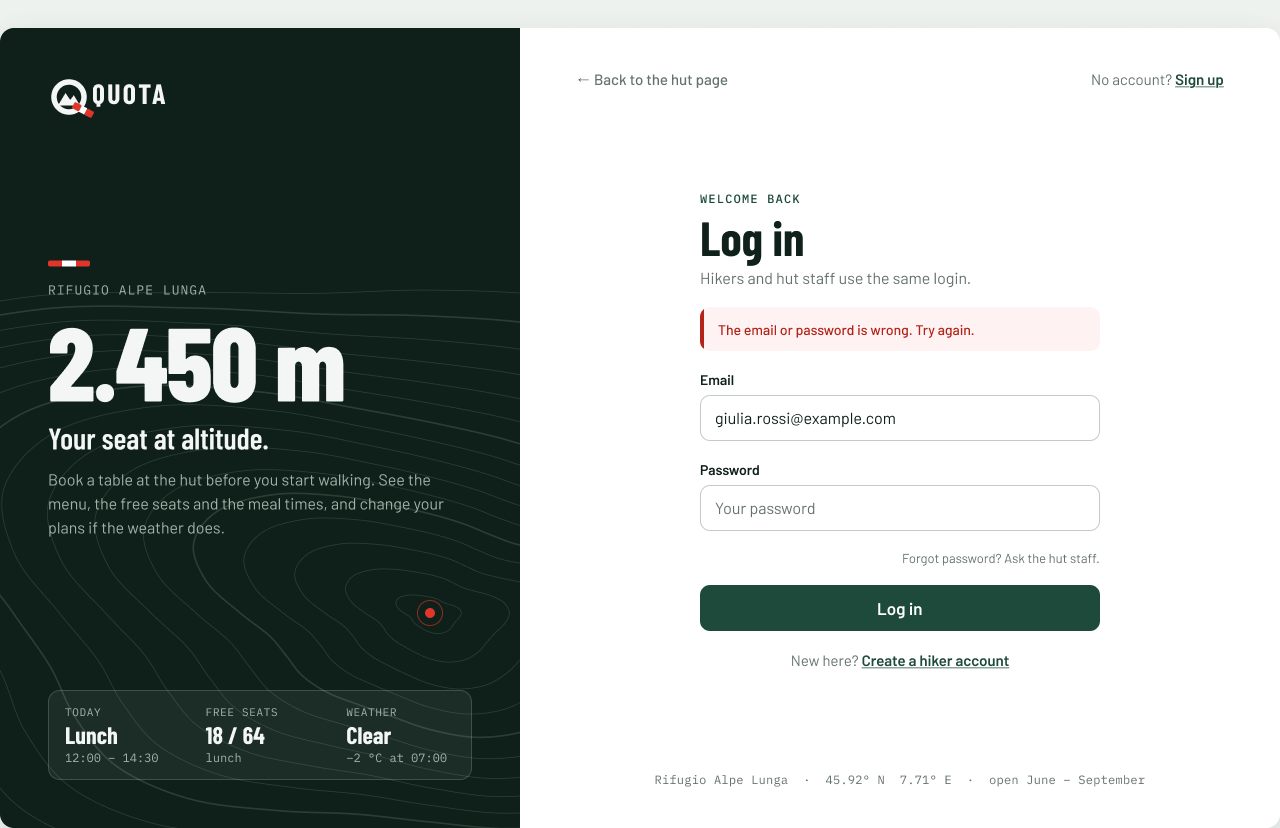
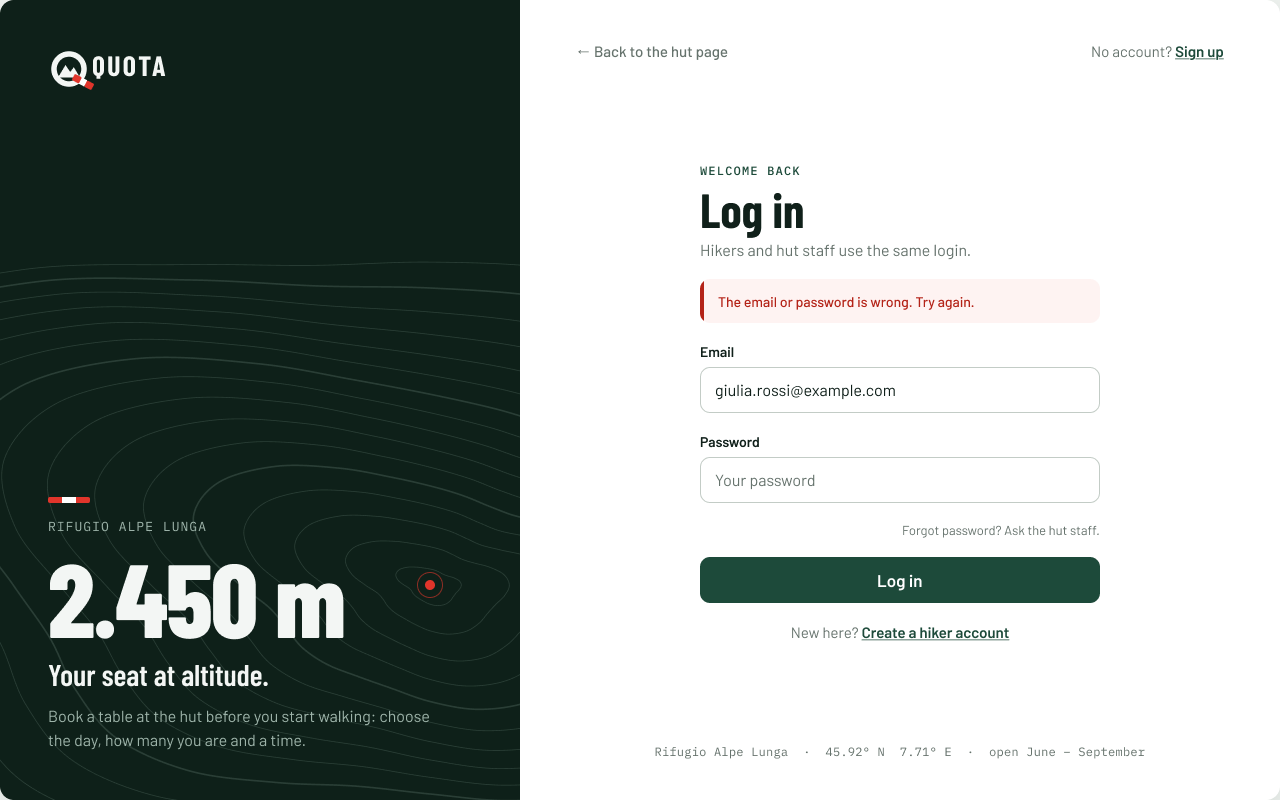
docs: add the phone version of the login mockup (MH-45)
The website is responsive: below 992 px the login, sign-up and navbar
fold into one column. Ten phone screens, in Figma and in phone.html.

The brand panel no longer shows the Today strip (sample data of later
stories) and the navbar lists only the sprint 1 pages; screens 1-7 are
exported again from Figma.

diff --git a/docs/mockups/login/phone.html b/docs/mockups/login/phone.html
@@ -1,0 +1,222 @@
+<!doctype html>
+<html lang="en">
+<head>
+<meta charset="utf-8">
+<meta name="viewport" content="width=device-width, initial-scale=1">
+<title>MH-45 Login and sign-up, responsive (QUOTA)</title>
+<link rel="preconnect" href="https://fonts.googleapis.com">
+<link rel="preconnect" href="https://fonts.gstatic.com" crossorigin>
+<link href="https://fonts.googleapis.com/css2?family=Barlow+Condensed:wght@600;700;800&family=Barlow:wght@400;500;600&family=IBM+Plex+Mono:wght@400;500&display=block" rel="stylesheet">
+<style>
+  /* QUOTA tokens: same names and values as the Figma variables (page "Components"). */
+  :root {
+    --ink: #10201A; --pine: #1D4A3A; --pine-hover: #163A2D; --pine-deep: #0E2019; --moss-soft: #E3ECE6;
+    --snow: #FFFFFF; --mist: #EEF2EF; --stone: #66736D; --line: #D8DFDA; --input-border: #C3CCC6;
+    --blaze: #E0352B; --error: #B42318; --error-soft: #FEF3F2; --info: #175CD3; --info-soft: #EFF8FF;
+    --on-dark: #F3F6F4; --on-dark-muted: #9DB3A9;
+    --f-display: "Barlow Condensed", sans-serif; --f-body: "Barlow", sans-serif; --f-mono: "IBM Plex Mono", monospace;
+  }
+  * { box-sizing: border-box; }
+  body { margin: 0; background: #DDE4E0; font-family: var(--f-body); color: var(--ink); }
+  .sheet { padding: 48px; display: grid; gap: 64px; }
+  .group > h2 { font-family: var(--f-display); font-size: 34px; margin: 0 0 6px; }
+  .group > p { margin: 0 0 24px; color: var(--stone); font-size: 15px; max-width: 900px; line-height: 1.5; }
+  .row-of-phones { display: flex; flex-wrap: wrap; gap: 40px; align-items: flex-start; }
+  .shot { display: grid; gap: 10px; width: 414px; }
+  .shot-title { display: flex; gap: 10px; align-items: baseline; }
+  .shot-title .n { font-family: var(--f-mono); color: var(--pine); font-weight: 500; }
+  .shot-title h3 { font-family: var(--f-display); font-size: 22px; margin: 0; }
+  .shot ul { margin: 0; padding-left: 18px; color: var(--stone); font-size: 14px; line-height: 1.45; min-height: 62px; }
+
+  /* device: 390 x 844 viewport (iPhone 14/15) inside a thin bezel */
+  .device { background: #0B1612; padding: 12px; border-radius: 52px; box-shadow: 0 16px 40px rgba(16,32,26,.18); }
+  .screen { width: 390px; height: 844px; border-radius: 40px; overflow: hidden; background: var(--snow); position: relative; display: flex; flex-direction: column; }
+  .screen.long { height: auto; }
+  .status { height: 47px; flex: none; display: flex; align-items: center; justify-content: space-between; padding: 6px 30px 0 34px; font-family: var(--f-body); font-weight: 600; font-size: 16px; position: relative; z-index: 2; }
+  .status .icons { display: flex; gap: 6px; align-items: center; }
+  .status { background: #F2F3F2; }
+
+  /* hero (the brand panel of the desktop, folded on top) */
+  .hero { background: var(--pine-deep); color: var(--on-dark); position: relative; overflow: hidden; padding: 4px 24px 40px; flex: none; }
+  .hero svg.contours { position: absolute; inset: 0; width: 100%; height: 100%; }
+  .hero > * { position: relative; }
+  .hero-top { display: flex; align-items: center; justify-content: space-between; height: 56px; }
+  .logo { display: flex; align-items: center; gap: 8px; font-family: var(--f-display); font-weight: 700; font-size: 24px; letter-spacing: .08em; line-height: 1; }
+  .toplink { font-size: 15px; color: var(--on-dark-muted); }
+  .toplink b { color: var(--on-dark); text-decoration: underline; text-underline-offset: 3px; font-weight: 600; }
+  .blz { display: flex; width: 42px; height: 6px; margin: 14px 0 10px; }
+  .blz i { flex: 1; background: var(--blaze); } .blz i:nth-child(2) { background: var(--snow); }
+  .hut { font-family: var(--f-mono); font-size: 12px; letter-spacing: .12em; color: var(--on-dark-muted); }
+  .alt { font-family: var(--f-display); font-weight: 800; font-size: 58px; line-height: .95; letter-spacing: -.01em; margin-top: 4px; }
+  .tag { font-family: var(--f-display); font-weight: 600; font-size: 22px; margin-top: 6px; }
+  .today { margin-top: 14px; display: inline-flex; gap: 10px; align-items: center; border: 1px solid rgba(255,255,255,.14); background: rgba(255,255,255,.06); border-radius: 999px; padding: 7px 14px; font-family: var(--f-mono); font-size: 12px; color: var(--on-dark-muted); }
+  .today b { color: var(--on-dark); font-weight: 500; }
+  .today .dot { width: 6px; height: 6px; border-radius: 50%; background: var(--blaze); }
+  .hero.compact { padding-bottom: 40px; }
+  .hero.compact .hut { margin-top: 18px; }
+
+  /* the form sheet slides over the hero */
+  .form { background: var(--snow); border-radius: 24px 24px 0 0; margin-top: -24px; padding: 24px 24px 30px; position: relative; flex: 1; display: flex; flex-direction: column; }
+  .eyebrow { font-family: var(--f-mono); font-size: 12px; font-weight: 500; letter-spacing: .12em; text-transform: uppercase; color: var(--pine); }
+  h1 { font-family: var(--f-display); font-weight: 700; font-size: 42px; line-height: 1; margin: 6px 0 6px; }
+  .sub { color: var(--stone); font-size: 15px; margin: 0 0 20px; }
+  .field { margin-bottom: 16px; }
+  .field label { display: block; font-weight: 600; font-size: 15px; margin-bottom: 6px; }
+  .field label i { color: var(--error); font-style: normal; }
+  .input { height: 52px; border: 1px solid var(--input-border); border-radius: 10px; display: flex; align-items: center; justify-content: space-between; padding: 0 14px; font-size: 16px; background: var(--snow); }
+  .input .ph { color: #8A958F; }
+  .field.focus .input { border: 2px solid var(--pine); padding: 0 13px; box-shadow: 0 0 0 4px var(--moss-soft); }
+  .field.err .input { border: 1.5px solid var(--error); background: var(--error-soft); padding: 0 13.5px; }
+  .msg { color: var(--error); font-size: 14px; margin-top: 6px; }
+  .msg u { font-weight: 600; text-underline-offset: 2px; }
+  .help { color: var(--stone); font-size: 14px; margin-top: 6px; }
+  .forgot { text-align: right; font-size: 14px; color: var(--stone); margin: -4px 0 18px; }
+  .btn { height: 54px; width: 100%; border: 0; border-radius: 12px; font-family: var(--f-body); font-weight: 600; font-size: 17px; display: flex; align-items: center; justify-content: center; gap: 10px; }
+  .btn.primary { background: var(--pine); color: var(--snow); }
+  .btn.busy { background: #5D7C70; }
+  .btn.outline { background: var(--snow); color: var(--ink); border: 1px solid var(--input-border); }
+  .spinner { width: 18px; height: 18px; border-radius: 50%; border: 2.5px solid rgba(255,255,255,.35); border-top-color: #fff; }
+  .alt-line { text-align: center; color: var(--stone); font-size: 15px; margin-top: 16px; }
+  .alt-line b { color: var(--pine); text-decoration: underline; text-underline-offset: 3px; }
+  .alert { display: flex; border-radius: 10px; overflow: hidden; font-weight: 500; font-size: 14px; margin-bottom: 18px; line-height: 1.4; }
+  .alert::before { content: ""; width: 4px; flex: none; }
+  .alert span { padding: 12px 14px; }
+  .alert.error { background: var(--error-soft); color: var(--error); } .alert.error::before { background: var(--error); }
+  .alert.info { background: var(--info-soft); color: var(--info); } .alert.info::before { background: var(--info); }
+  .foot { margin-top: auto; padding-top: 18px; display: grid; gap: 10px; justify-items: center; }
+  .foot .back { font-size: 15px; color: var(--stone); }
+  .foot .coords { font-family: var(--f-mono); font-size: 11px; color: var(--stone); text-align: center; line-height: 1.6; }
+  .hero.compact .marker { display: none; }
+  .home-ind { height: 5px; width: 134px; border-radius: 3px; background: var(--ink); position: absolute; bottom: 8px; left: 50%; transform: translateX(-50%); z-index: 5; }
+
+  /* app top bar + menu */
+  .topbar { height: 60px; flex: none; display: flex; align-items: center; justify-content: space-between; padding: 0 12px 0 18px; border-bottom: 1px solid var(--line); background: var(--snow); position: relative; z-index: 3; }
+  .topbar .logo { color: var(--ink); font-size: 23px; }
+  .burger { width: 44px; height: 44px; border-radius: 10px; display: grid; place-items: center; }
+  .burger.open { background: var(--mist); }
+  .menu { position: absolute; top: 159px; left: 0; right: 0; background: var(--snow); z-index: 3; padding: 16px 16px 20px; border-bottom: 1px solid var(--line); box-shadow: 0 18px 30px rgba(14,32,25,.18); }
+  .me { display: flex; align-items: center; gap: 12px; padding: 4px 8px 16px; border-bottom: 1px solid var(--line); margin-bottom: 10px; }
+  .avatar { width: 40px; height: 40px; border-radius: 50%; background: var(--moss-soft); color: var(--pine); display: grid; place-items: center; font-family: var(--f-display); font-weight: 700; font-size: 16px; flex: none; }
+  .avatar.dark { background: var(--pine); color: var(--snow); }
+  .me b { display: block; font-size: 17px; font-weight: 600; }
+  .me span { font-family: var(--f-mono); font-size: 11px; letter-spacing: .08em; color: var(--stone); text-transform: uppercase; }
+  .menu a { display: flex; align-items: center; justify-content: space-between; height: 52px; padding: 0 12px; border-radius: 10px; font-size: 17px; font-weight: 500; color: var(--ink); text-decoration: none; }
+  .menu a.on { background: var(--moss-soft); color: var(--pine); font-weight: 600; }
+  .menu a.on::after { content: ""; width: 6px; height: 6px; border-radius: 50%; background: var(--pine); }
+  .menu .out { border-top: 1px solid var(--line); margin-top: 10px; padding-top: 10px; }
+  .menu .out a { color: var(--stone); }
+  .scrim { position: absolute; inset: 159px 0 0 0; background: rgba(14,32,25,.45); z-index: 2; }
+  .behind { padding: 24px; display: grid; gap: 12px; }
+  .ghost-line { height: 14px; border-radius: 7px; background: var(--line); }
+  .ghost-card { height: 110px; border-radius: 14px; background: var(--mist); }
+
+  /* staff only */
+  .center { flex: 1; display: grid; place-content: center; justify-items: center; text-align: center; padding: 0 32px; gap: 12px; background: var(--mist); }
+  .center .blz { margin: 0; }
+  .center h1 { font-size: 44px; margin: 4px 0 0; }
+  .center p { margin: 0 0 8px; color: var(--stone); font-size: 16px; line-height: 1.45; }
+  .center .btn { width: auto; padding: 0 22px; }
+
+  /* mobile browser chrome: these are web pages, not an app */
+  .urlbar { height: 52px; flex: none; background: #F2F3F2; display: flex; align-items: center; gap: 12px; padding: 0 14px; border-bottom: 1px solid #DADDDB; position: relative; z-index: 4; }
+  .urlbar .addr { flex: 1; height: 36px; border-radius: 12px; background: #E4E6E5; display: flex; align-items: center; justify-content: center; gap: 6px; font: 15px -apple-system, "Helvetica Neue", Arial, sans-serif; color: #2B2F2D; }
+  .urlbar .addr small { color: #7A807D; font-size: 15px; }
+</style>
+</head>
+<body>
+<div class="sheet" id="sheet"></div>
+
+<script>
+// Every screen is built from the same small helpers so phone and desktop stay in step.
+const mark = (c) => `<svg width="30" height="30" viewBox="0 0 48 48"><circle cx="21" cy="21" r="15" fill="none" stroke="${c}" stroke-width="5.5"/><path d="M10 29.5 L17.5 17 L22.2 24 L25.8 19.2 L32 29.5 Z" fill="${c}"/><g transform="rotate(28 35 34)"><rect x="24" y="30.5" width="8" height="7" rx="1.4" fill="#E0352B"/><rect x="32" y="30.5" width="6" height="7" fill="#FFFFFF"/><rect x="38" y="30.5" width="8" height="7" rx="1.4" fill="#E0352B"/></g></svg>`;
+const logo = (dark) => `<div class="logo">${mark(dark ? "#F3F6F4" : "#1D4A3A")}QUOTA</div>`;
+const status = (dark) => `<div class="status ${dark ? "dark" : ""}"><span>9:41</span><span class="icons">
+  <svg width="18" height="12" viewBox="0 0 18 12" fill="currentColor"><rect x="0" y="8" width="3" height="4" rx="1"/><rect x="5" y="5.5" width="3" height="6.5" rx="1"/><rect x="10" y="3" width="3" height="9" rx="1"/><rect x="15" y="0" width="3" height="12" rx="1"/></svg>
+  <svg width="16" height="12" viewBox="0 0 16 12" fill="currentColor"><path d="M8 2.2c2.3 0 4.4.9 6 2.4l1.2-1.3C13.3 1.5 10.8.4 8 .4S2.7 1.5.8 3.3L2 4.6c1.6-1.5 3.7-2.4 6-2.4zm0 3.6c1.3 0 2.5.5 3.4 1.3l1.2-1.3C11.4 4.7 9.8 4 8 4s-3.4.7-4.6 1.8l1.2 1.3c.9-.8 2.1-1.3 3.4-1.3zM8 9.3l2-2.1C9.5 6.8 8.8 6.5 8 6.5s-1.5.3-2 .7l2 2.1z"/></svg>
+  <svg width="26" height="12" viewBox="0 0 26 12"><rect x=".5" y=".5" width="22" height="11" rx="3" fill="none" stroke="currentColor" opacity=".4"/><rect x="2" y="2" width="17" height="8" rx="1.6" fill="currentColor"/><rect x="23.5" y="4" width="1.8" height="4" rx=".9" fill="currentColor" opacity=".5"/></svg></span></div>`;
+
+const urlbar = (path) => `<div class="urlbar"><svg width="18" height="18" viewBox="0 0 18 18" fill="none" stroke="#2B2F2D" stroke-width="1.6"><path d="M11 4L6 9l5 5"/></svg><div class="addr"><svg width="11" height="13" viewBox="0 0 11 13" fill="#5B615E"><rect x="0" y="5.5" width="11" height="7.5" rx="1.6"/><path d="M2.5 5.5V4a3 3 0 0 1 6 0v1.5" fill="none" stroke="#5B615E" stroke-width="1.5"/></svg>localhost:5173<small>${path}</small></div><svg width="18" height="18" viewBox="0 0 18 18" fill="none" stroke="#2B2F2D" stroke-width="1.6"><path d="M15 9a6 6 0 1 1-1.8-4.3M15 3v3.5h-3.5"/></svg></div>`;
+
+// Contour lines like the desktop brand panel, centred near the hut marker.
+const contours = (() => {
+  const paths = [];
+  for (let k = 1; k <= 13; k++) {
+    const r = 18 + k * 26, pts = [];
+    for (let i = 0; i <= 64; i++) {
+      const a = (i / 64) * Math.PI * 2;
+      const rr = r * (1 + 0.13 * Math.sin(3 * a + k * 0.4) + 0.06 * Math.sin(5 * a + k));
+      pts.push(`${(318 + rr * 1.25 * Math.cos(a)).toFixed(1)},${(150 + rr * 0.8 * Math.sin(a)).toFixed(1)}`);
+    }
+    paths.push(`<polyline points="${pts.join(" ")}" fill="none" stroke="#FFFFFF" stroke-opacity="${(0.13 - k * 0.004).toFixed(3)}" stroke-width="1"/>`);
+  }
+  return `<svg class="contours" viewBox="0 0 390 360" preserveAspectRatio="xMidYMin slice">${paths.join("")}<g class="marker"><circle cx="318" cy="150" r="9" fill="none" stroke="#E0352B" stroke-width="1"/><circle cx="318" cy="150" r="4" fill="#E0352B"/></g></svg>`;
+})();
+
+const blz = `<div class="blz"><i></i><i></i><i></i></div>`;
+const hero = (toplink) => `<div class="hero">${contours}<div class="hero-top">${logo(true)}<span class="toplink">${toplink}</span></div>
+  ${blz}<div class="hut">RIFUGIO ALPE LUNGA</div><div class="alt">2.450 m</div><div class="tag">Your seat at altitude.</div>
+</div>`;
+const heroCompact = (toplink) => `<div class="hero compact">${contours}<div class="hero-top">${logo(true)}<span class="toplink">${toplink}</span></div>
+  <div class="hut">RIFUGIO ALPE LUNGA · 2.450 m</div></div>`;
+
+const ERR = `<svg width="20" height="20" viewBox="0 0 20 20"><circle cx="10" cy="10" r="8" fill="none" stroke="#B42318" stroke-width="1.6"/><rect x="9.1" y="5.2" width="1.8" height="6" rx=".9" fill="#B42318"/><circle cx="10" cy="14.2" r="1.1" fill="#B42318"/></svg>`;
+const field = ({ label, req, ph, val, err, help, focus }) => `<div class="field ${err ? "err" : ""} ${focus ? "focus" : ""}">
+  <label>${label}${req ? " <i>*</i>" : ""}</label><div class="input">${val ? `<span>${val}</span>` : `<span class="ph">${err ? "" : ph}</span>`}${err ? ERR : ""}</div>
+  ${err ? `<div class="msg">${err}</div>` : help ? `<div class="help">${help}</div>` : ""}</div>`;
+const foot = `<div class="foot"><span class="back">← Back to the hut page</span><span class="coords">45.92° N 7.71° E<br>open June – September</span></div>`;
+
+const login = ({ alert, email = {}, password = {}, busy }) => `${status()}${urlbar("/login")}${hero("No account? <b>Sign up</b>")}<div class="form">
+  <div class="eyebrow">Welcome back</div><h1>Log in</h1><p class="sub">Hikers and hut staff use the same login.</p>${alert || ""}
+  ${field({ label: "Email", ph: "name@example.com", ...email })}${field({ label: "Password", ph: "Your password", ...password })}
+  <div class="forgot">Forgot password? Ask the hut staff.</div>
+  <button class="btn primary ${busy ? "busy" : ""}">${busy ? '<i class="spinner"></i>Logging in…' : "Log in"}</button>
+  <div class="alt-line">New here? <b>Create a hiker account</b></div>${foot}</div>`;
+
+const signup = (f) => `${status()}${urlbar("/signup")}${heroCompact("Already registered? <b>Log in</b>")}<div class="form">
+  <div class="eyebrow">New hiker</div><h1>Create your account</h1><p class="sub">Fields marked * are required.</p>
+  ${field({ label: "First name", req: 1, ph: "Giulia", ...f.first })}${field({ label: "Last name", req: 1, ph: "Rossi", ...f.last })}
+  ${field({ label: "Email", req: 1, ph: "name@example.com", help: "Your booking confirmations are sent here.", ...f.email })}
+  ${field({ label: "Phone", ph: "+39 333 123 4567", help: "Optional. The hut uses it only if your plans change.", ...f.phone })}
+  ${field({ label: "Password", req: 1, ph: "At least 8 characters", ...f.pw })}${field({ label: "Repeat password", req: 1, ph: "Same password again", ...f.pw2 })}
+  <button class="btn primary" style="margin-top:6px">Create account</button>
+  <div class="alt-line">Hut staff accounts are created by the manager.</div>${foot}</div>`;
+
+const LINKS = { hiker: ["The hut", "Book a table"], staff: ["The hut", "Slots & tables"] };
+const BURGER = `<svg width="22" height="22" viewBox="0 0 22 22" stroke="#10201A" stroke-width="2" stroke-linecap="round"><path d="M3 6h16M3 11h16M3 16h16"/></svg>`;
+const CLOSE = `<svg width="22" height="22" viewBox="0 0 22 22" stroke="#10201A" stroke-width="2" stroke-linecap="round"><path d="M5 5l12 12M17 5L5 17"/></svg>`;
+const appTop = (open, path) => `${status()}${urlbar(path)}<div class="topbar">${logo()}<div class="burger ${open ? "open" : ""}">${open ? CLOSE : BURGER}</div></div>`;
+const menuOpen = ({ initials, name, role, links, dark }) => `${appTop(true, role === "Hiker" ? "/book" : "/slots")}
+  <div class="behind"><div class="ghost-line" style="width:40%"></div><div class="ghost-line" style="width:70%;height:30px"></div><div class="ghost-card"></div><div class="ghost-card"></div></div>
+  <div class="scrim"></div><div class="menu"><div class="me"><div class="avatar ${dark ? "dark" : ""}">${initials}</div><div><b>${name}</b><span>${role}</span></div></div>
+  ${links.map((l, i) => `<a class="${i === 1 ? "on" : ""}">${l.replace("&", "&amp;")}</a>`).join("")}<div class="out"><a>Log out</a></div></div>`;
+
+const groups = [
+  { title: "Login", text: "Below 992 px wide (the react-bootstrap <code>lg</code> breakpoint) the brand panel folds into a dark header and the form slides over it as a white sheet. Same fields, same texts and same rules as the desktop screens 1–4; only the layout changes.",
+    shots: [
+      { n: "M1", title: "Log in", notes: ["The brand panel of the desktop becomes the header.", "\"No account? Sign up\" stays in the header, top right."], html: login({}) },
+      { n: "M2", title: "Fields left empty", notes: ["Same messages as desktop screen 2, under each field."], html: login({ email: { err: "Enter your email." }, password: { err: "Enter your password." } }) },
+      { n: "M3", title: "Wrong email or password", notes: ["Server answers 401: alert on top, email kept, password emptied.", "The field gets the focus again, so the keyboard reopens on it."], html: login({ alert: '<div class="alert error"><span>The email or password is wrong. Try again.</span></div>', email: { val: "giulia.rossi@example.com" }, password: { focus: true } }) },
+      { n: "M4", title: "Login needed first", notes: ["Redirect from a protected page, as desktop screen 4.", "Shown while the request runs: button disabled, \"Logging in…\"."], html: login({ alert: '<div class="alert info"><span>Log in to book a table.</span></div>', email: { val: "giulia.rossi@example.com" }, password: { val: "••••••••••" }, busy: true }) },
+    ] },
+  { title: "Sign up", text: "The header shrinks to the logo and the hut name so the form starts higher. Fields that sit side by side on desktop (first and last name, the two passwords) are stacked. Both screens are shown as the full page; on the phone it scrolls.",
+    shots: [
+      { n: "M5", title: "Sign up, hikers only", notes: ["Inputs use 16 px text, so iPhones do not zoom in when a field is tapped.", "Email field uses the email keyboard, phone the phone keypad."], long: true,
+        html: signup({ first: {}, last: {}, email: {}, phone: {}, pw: {}, pw2: {} }) },
+      { n: "M6", title: "Sign up, errors", notes: ["Same messages as desktop screen 6. The page scrolls to the first field with an error.", "409: \"Log in\" in the message is a link."], long: true,
+        html: signup({ first: { val: "Giulia" }, last: { err: "Enter your last name." }, email: { val: "giulia.rossi@example.com", err: 'An account with this email already exists. <u>Log in</u> instead.' }, phone: { ph: "+39 333 123 4567" }, pw: { val: "••••••", err: "Use at least 8 characters." }, pw2: { val: "•••••••", err: "The passwords are different." } }) },
+    ] },
+  { title: "Navigation", text: "The navbar collapses into a menu button (react-bootstrap <code>Navbar expand=\"lg\"</code>). Opening it shows who is logged in, the pages of that role, and Log out. Desktop screen 7 shows the same three roles.",
+    shots: [
+      { n: "M7", title: "Menu, hiker", notes: ["Only the pages that exist in sprint 1. Pages of later stories are added with them.", "Tapping outside the menu or on a link closes it."], html: menuOpen({ initials: "GR", name: "Giulia Rossi", role: "Hiker", links: LINKS.hiker }) },
+      { n: "M8", title: "Menu, employee", notes: ["Employee and manager see the same pages: the manager can do everything an employee does (context.md)."], html: menuOpen({ initials: "MB", name: "Marco Bianchi", role: "Employee", links: LINKS.staff }) },
+      { n: "M9", title: "Menu, manager", notes: ["Dark avatar marks the manager, as on desktop."], html: menuOpen({ initials: "AV", name: "Anna Verdi", role: "Manager", links: LINKS.staff, dark: true }) },
+      { n: "M10", title: "Staff only", notes: ["A hiker opens a staff page by URL."], html: `${appTop(false, "/slots")}<div class="center">${blz}<h1>Staff only</h1><p>This page is for the hut team.<br>You are logged in as a hiker.</p><button class="btn primary">Go to Book a table</button></div>` },
+    ] },
+];
+
+document.getElementById("sheet").innerHTML = `<section class="group"><h2>The same website on a phone</h2><p>Not a separate app: these are the login and sign-up pages of the website, opened in a phone browser. The React pages are the same; below 992 px wide the CSS (react-bootstrap grid and <code>Navbar expand="lg"</code>) rearranges them into one column. Between 576 and 991 px (tablets) the form keeps a maximum width of 440 px, centred.</p></section>` + groups.map((g) => `<section class="group"><h2>${g.title}</h2><p>${g.text}</p><div class="row-of-phones">
+  ${g.shots.map((s) => `<div class="shot"><div class="shot-title"><span class="n">${s.n}</span><h3>${s.title}</h3></div><ul>${s.notes.map((n) => `<li>${n}</li>`).join("")}</ul>
+  <div class="device" id="${s.n}"><div class="screen ${s.long ? "long" : ""}">${s.html}<div class="home-ind"></div></div></div></div>`).join("")}</div></section>`).join("");
+</script>
+</body>
+</html>

diff --git a/docs/mockups/login/README.md b/docs/mockups/login/README.md
@@ -7,8 +7,8 @@ Mockup for the login frontend ([MH-55](https://polito-se2-26-16.youtrack.cloud/i
 | Figma page | What it holds |
 |---|---|
 | **Brand · QUOTA** | Name, logo, palette, typography, motifs and usage rules |
-| **MH-45 Login & sign-up** | The 7 screens below |
-| **Components** | Logo, trail blaze, button, text field, alert, navbars, brand panel, and the colour variables |
+| **MH-45 Login & sign-up** | The 7 desktop screens and the 10 phone screens below |
+| **Components** | Logo, trail blaze, button, text field, alert, navbars, brand panel, phone browser bar and top bar, and the colour variables |
 
 ## The brand in one paragraph
 
@@ -26,7 +26,33 @@ The app is called **QUOTA**. In Italian *quota* is altitude (huts are signed "qu
 | 6 | Sign up, errors | ![Sign up errors](06-signup-errors.png) |
 | 7 | Navbar for each role, and a hiker on a staff page | ![Navbar per role](07-navbar-per-role.png) |
 
-Login and sign-up are split screens: the **brand panel** on the left (hut name, altitude, today's meal and free seats on a contour map), the form on the right. The "Today" strip in the panel is sample data until MH-4 and MH-11 exist.
+Login and sign-up are split screens: the **brand panel** on the left (hut name and altitude on a contour map), the form on the right.
+
+The navbar shows only the pages that exist in sprint 1: *The hut* and *Book a table* for hikers, *The hut* and *Slots & tables* for employees and the manager. Pages of later stories are added to the navbar with their story.
+
+## On a phone
+
+The same website opened in a phone browser, not a separate app: the React pages are the same, and the CSS rearranges them. The screens are in Figma (section *On a phone* of the MH-45 page); [phone.html](phone.html) shows them in a browser with their notes.
+
+- **Breakpoint: 992 px** (react-bootstrap `lg`). Below it the page is one column and the navbar collapses into a menu button (`Navbar expand="lg"`). Between 576 and 991 px (tablets) the form keeps a maximum width of 440 px, centred.
+- **Login:** the brand panel becomes a dark header with the logo, "No account? Sign up", the hut name and the altitude; the form slides over it as a white sheet.
+- **Sign up:** the header shrinks to the logo and the hut name. Fields that sit side by side on desktop (first and last name, the two passwords) are stacked.
+- **Fields:** 16 px text, so iPhones do not zoom in when a field is tapped. Email uses `type="email"`, phone `type="tel"`, so the phone shows the right keyboard.
+- **Menu:** shows who is logged in, the pages of that role (current page highlighted) and Log out. Tapping a link or outside the menu closes it.
+- Texts, fields, rules and messages are the same as on desktop.
+
+| # | Screen | Image |
+|---|---|---|
+| 1 | Login | ![Login on a phone](phone/01-login.png) |
+| 2 | Login, fields left empty | ![Empty fields on a phone](phone/02-login-empty-fields.png) |
+| 3 | Login, wrong email or password (focus back on the password) | ![Wrong credentials on a phone](phone/03-login-wrong-credentials.png) |
+| 4 | Login needed first, while logging in | ![Login required on a phone](phone/04-login-required.png) |
+| 5 | Sign up (full page, it scrolls) | ![Sign up on a phone](phone/05-signup.png) |
+| 6 | Sign up, errors (the page scrolls to the first error) | ![Sign up errors on a phone](phone/06-signup-errors.png) |
+| 7 | Menu, hiker | ![Hiker menu](phone/07-menu-hiker.png) |
+| 8 | Menu, employee | ![Employee menu](phone/08-menu-employee.png) |
+| 9 | Menu, manager | ![Manager menu](phone/09-menu-manager.png) |
+| 10 | Staff only | ![Staff only on a phone](phone/10-staff-only.png) |
 
 ## Behaviour
 
